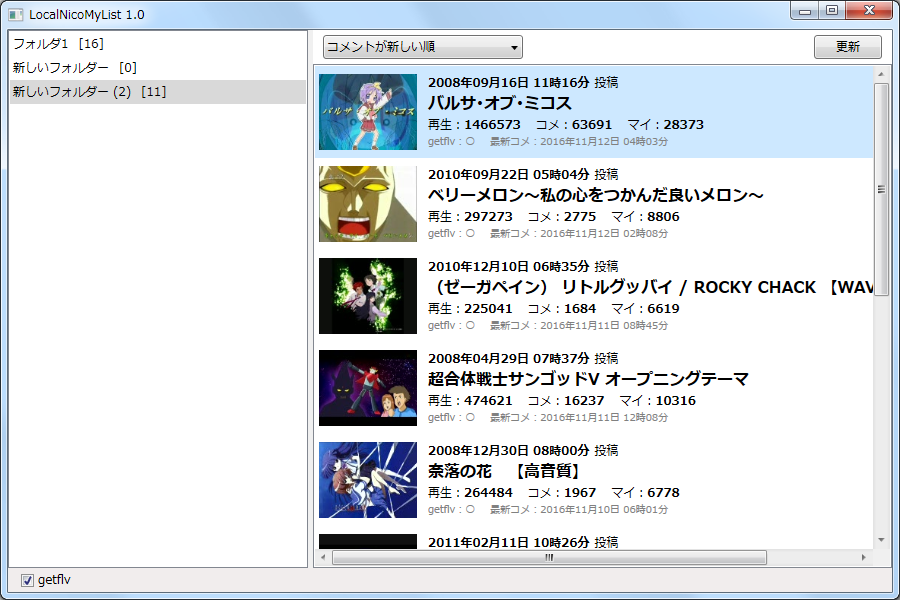
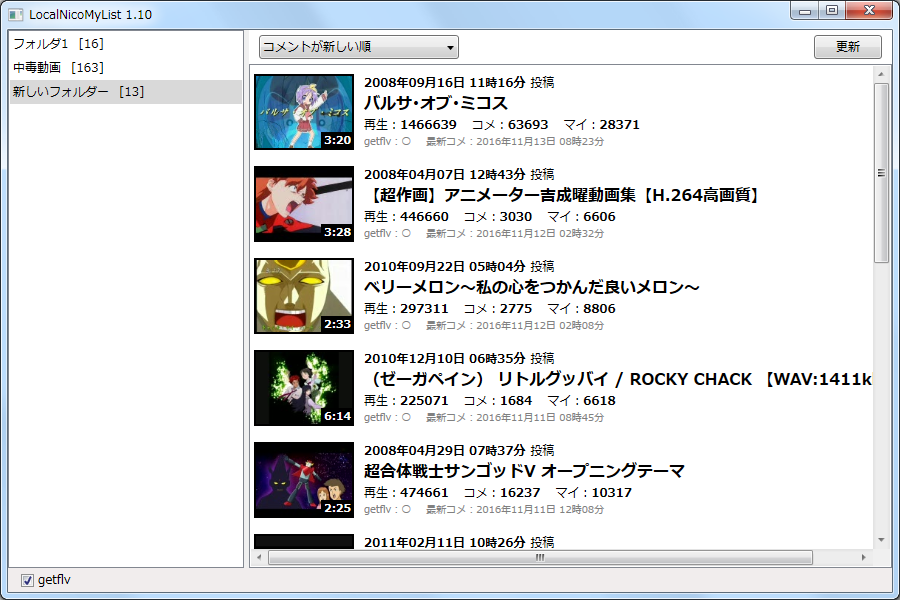
表示バージョンを1.10に変更。スクリーンショットを更新。

diff --git a/LocalNicoMyList/Properties/Resources.Designer.cs b/LocalNicoMyList/Properties/Resources.Designer.cs
@@ -61,7 +61,7 @@ namespace LocalNicoMyList.Properties {
         }
         
         /// <summary>
-        ///   LocalNicoMyList 1.01 に類似しているローカライズされた文字列を検索します。
+        ///   LocalNicoMyList 1.10 に類似しているローカライズされた文字列を検索します。
         /// </summary>
         public static string WINDOW_TITLE {
             get {
